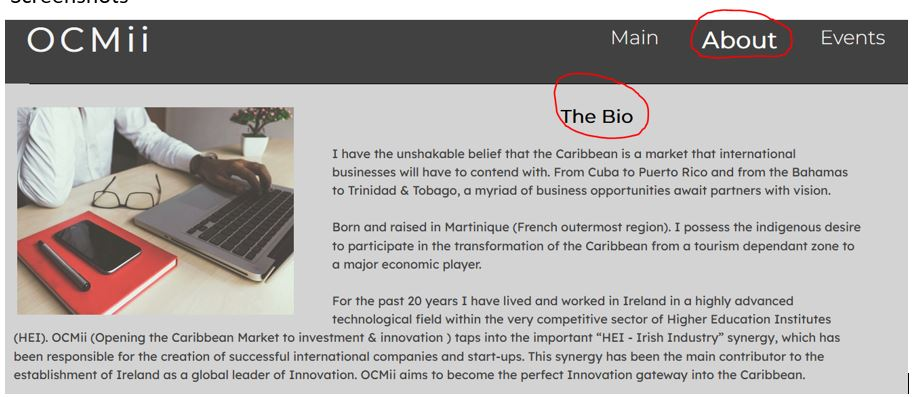
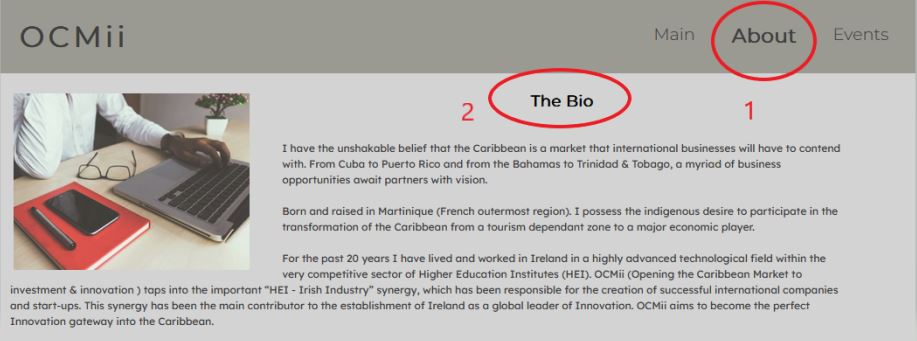
final commit

diff --git a/README.md b/README.md
@@ -357,8 +357,6 @@ Testing was done on the following browsers:
 
 ### Testing user stories
 
-- !!!Exception!!! The reader will have noticed that on the live site's header, the font colour is darker and the background colour is lighter than on the screenshots. The screenshots were taken at the time when the developper deemed acceptable to release the website with a low contrast warning from the (hidden from view) checkbox input. However during the last itteration (after the screenshots were produced) the developper realised that changing the font from light to dark and the backgroud colour from dark to light cleared the warning. Other than this slight difference the features are the same and the website has not been modified.  
-
 1. As a first time user, I want to know what OCMii is about
 
 | **Feature** | **Action** | **Expected Result** | **Actual Result** |
@@ -435,7 +433,7 @@ Testing was done on the following browsers:
 | Footer| scroll down to the bottom of any page | Click on social media links | working |
 
 <details><summary>Screenshots</summary>
-<img src="assets/docs/user_stories/user_10.jpg">
+<img src="assets/docs/user_stories/user_7_10.jpg">
 </details>
 
 8. As a returning user, I want to know how to get to OCMii
@@ -445,7 +443,7 @@ Testing was done on the following browsers:
 | map | Navigate to the Contact Us | Use the Google Map | Working |
 
 <details><summary>Screenshots</summary>
-<img src="assets/docs/user_stories/user_10.jpg">
+<img src="assets/docs/user_stories/user_8.jpg">
 </details>
 
 9. As the site owner, I want users to know about upcoming events
@@ -459,7 +457,7 @@ Testing was done on the following browsers:
 <img src="assets/docs/user_stories/user_6.jpg">
 </details>
 <details><summary>Screenshots</summary>
-<img src="assets/docs/user_stories/user_10.jpg">
+<img src="assets/docs/user_stories/user_7_10.jpg">
 </details>
 
 10. As the site owner, I want users to get to feel they are Empowered by OCMii
@@ -471,22 +469,22 @@ Testing was done on the following browsers:
 | Footer| On any page scroll to the bottom | Click on social media links | Working |
 
 <details><summary>Screenshots</summary>
-<img src="assets/docs/user_stories/user_10.jpg">
+<img src="assets/docs/user_stories/user_7_10.jpg">
 </details>
 <details><summary>Screenshots</summary>
 <img src="assets/docs/user_stories/user_10a.jpg">
 </details>
 
-| **Feature** | **Action** | **Expected Result** | **Actual Result** |
-|-------------|------------|---------------------|-------------------|
-| Map | Navigate to the Contact Us page, locate the map and click on directions link | See actual location on Goole Maps | Working |
 
 11. As the site owner, I want our users to be able to contact us
-
 
 | **Feature** | **Action** | **Expected Result** | **Actual Result** |
 |-------------|------------|---------------------|-------------------|
 | Info Box | Navigate to Contact Us locate the address details | Address/email/phone | success |
+
+details><summary>Screenshots</summary>
+<img src="assets/docs/user_stories/user_11_12.jpg">
+</details>
 
 12. As the site owner, I want our users to be able to stay in touch with us
 
